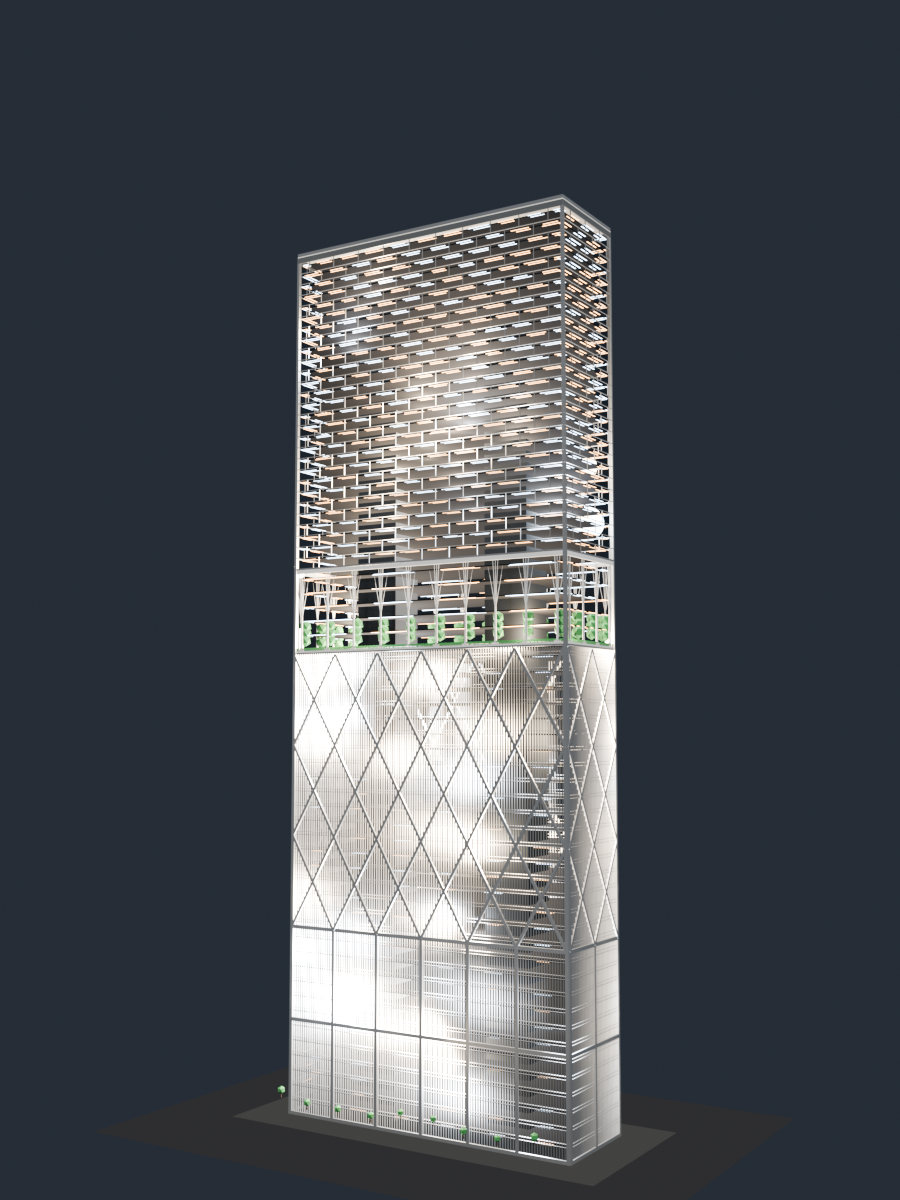
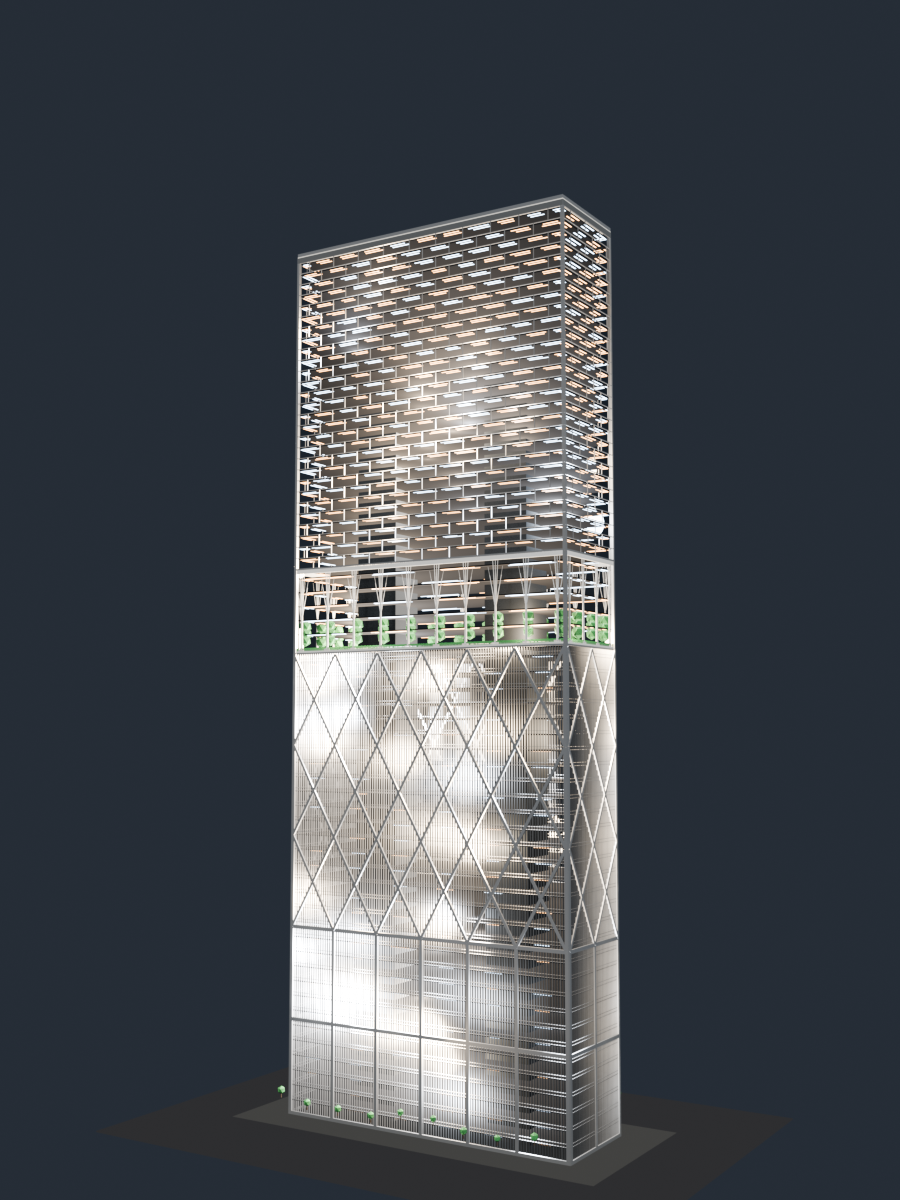
fix: align the Stack 3 window frame with the floor plates
The glazing sat 600 mm behind a frame that itself stood proud, so the frame read
as floating in front of the glass. Glass now shares the frame's plane, the frame
bites 600 mm into the room as in Stack 2, the transoms sit on top of the floor
plates, and the plates come back to just behind the glass.

diff --git a/build_stack3.py b/build_stack3.py
@@ -388,7 +388,9 @@ def build_floors(mats, cols):
     p = Part("Structure_Floors", mats["slab_dark"], cols["Structure"])
     for z in floor_levels():
         if z <= ROOF - 0.6:
-            p.box((0, 0, z - 0.175), (WIDTH - 4.8, DEPTH - 4.8, 0.35))
+            # The plate edge sits just behind the recessed glass, so every
+            # floor transom lands on a real floor plate.
+            p.box((0, 0, z - 0.175), (WIDTH - 1.6, DEPTH - 1.6, 0.35))
     floors = p.finish()
     if floors is not None:
         # Floors neither take light nor block it, so the interior lights carry
@@ -449,7 +451,7 @@ def build_lattice(mats, cols, rng):
     glass = Part("Lattice_Glass", mats["glass_deep"], col)
     for face in FACES:
         half = face_half(face)
-        glass.face_box(face, -half, half, z0 + 0.2, z1 - 0.2, -0.75, 0.14)
+        glass.face_box(face, -half, half, z0 + 0.2, z1 - 0.2, -0.12, 0.12)
     glass.finish()
 
     # The window frame, straight from Stack 2's office curtain wall: mullions
@@ -469,22 +471,12 @@ def build_lattice(mats, cols, rng):
     for face in FACES:
         half = face_half(face)
         for z in [z0] + [lev for lev in floor_levels() if z0 < lev <= z1]:
-            lo = 0.0 if z <= z0 else z - 0.05
-            hi = 0.10 if z <= z0 else z + 0.05
-            trans.face_box(face, -half, half, lo, hi, -0.60, 0.60)
+            # The transom sits on top of the floor plate: z to z + 100 mm.
+            trans.face_box(face, -half, half, z, z + 0.10, -0.60, 0.60)
             if z + 1.10 < z1:
-                trans.face_box(face, -half, half, z + 0.95, z + 1.05,
+                trans.face_box(face, -half, half, z + 1.00, z + 1.10,
                                -0.60, 0.60)
     trans.finish()
-
-    sill = Part("Lattice_Sills", mats["slate"], col)
-    for face in FACES:
-        half = face_half(face)
-        for z in floor_levels():
-            if z0 < z < z1:
-                sill.face_box(face, -half, half, z + 0.02, z + 0.14,
-                              -0.56, 0.10)
-    sill.finish()
 
     # A real curtain wall behind the big frame: narrow vertical panes between
     # thin mullions, with a white spandrel band on every floor - the office
